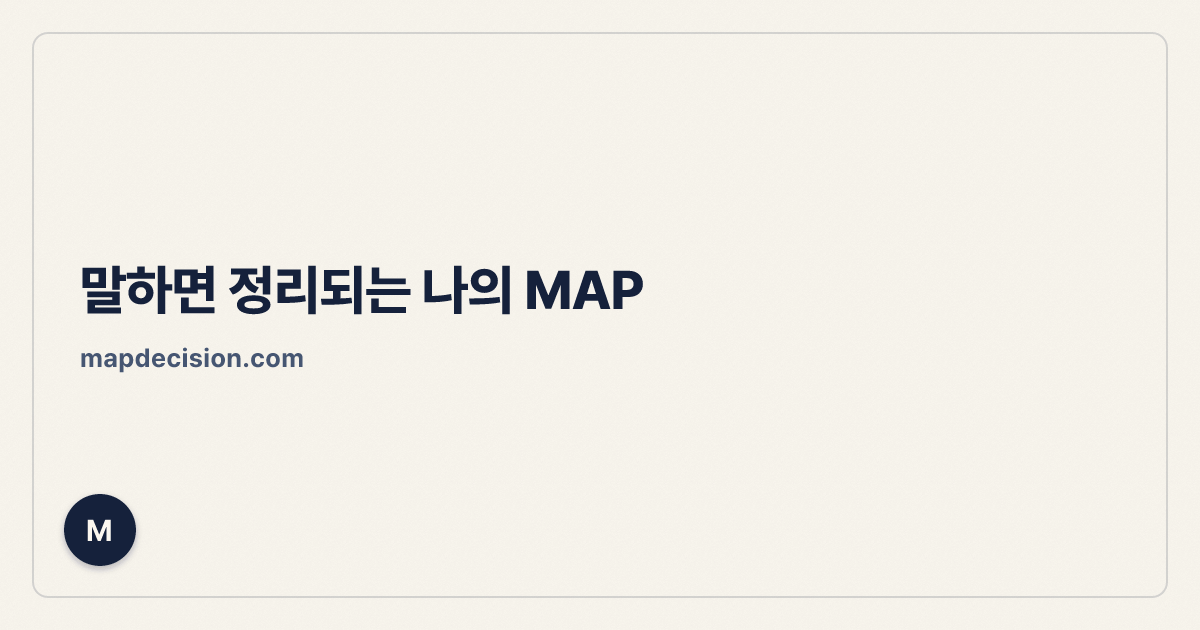
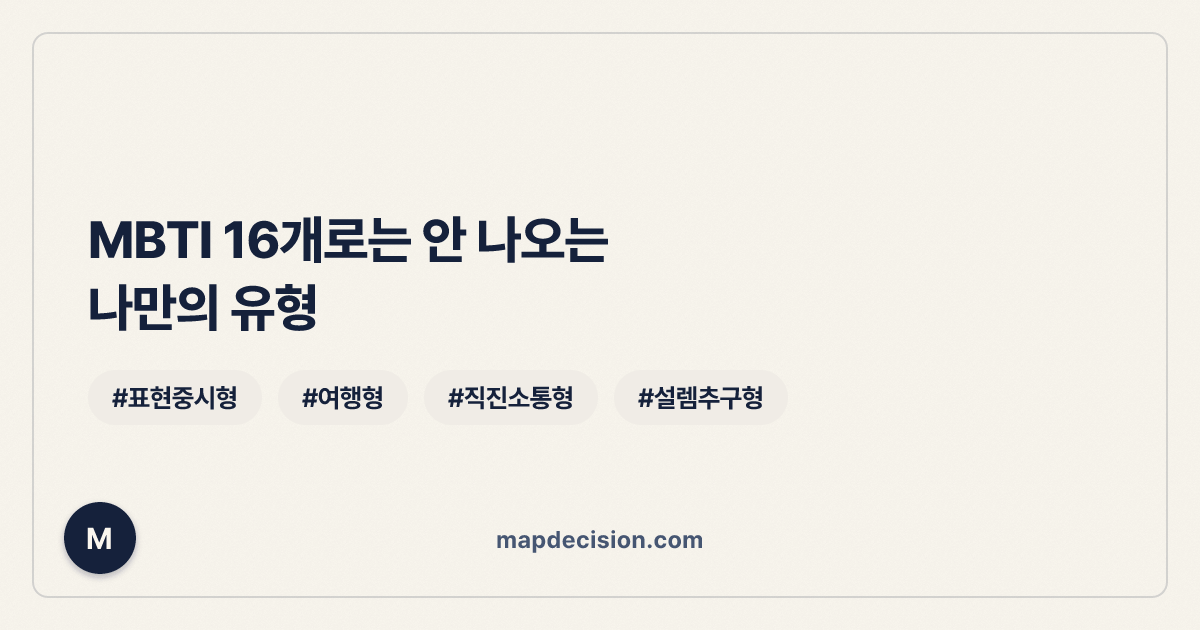
OG 이미지 문구 교체 + 태그 4개로 밀도 보완
- 문구를 /r/{id} openGraph 제목·설명과 같은 방향으로 교체:
  "MBTI 16개로는 안 나오는" / "나만의 유형" (2줄).
  기존 "말하면 정리되는 나의 MAP"은 뺐다 — 지금 제품은 선택지를
  고르는 방식이라 "말하기" 프레임과 어긋난다.
- TAG_CATEGORIES 4축에서 1개씩 고른 고정 예시 태그 4개
  (#표현중시형 #여행형 #직진소통형 #설렘추구형)를 card.png와 같은
  알약 스타일로 추가 — 실제 사용자 데이터가 아닌 하드코딩 예시라
  동적 OG 금지 원칙에 걸리지 않는다.
- 도메인 표기를 card.png(InvitationFooter)와 같은 하단 중앙 위치로
  이동.

diff --git a/src/map-decision-v1/engine/og-share-image.tsx b/src/map-decision-v1/engine/og-share-image.tsx
@@ -7,7 +7,18 @@ import { CARD_COLORS } from "./ideal-type-card-colors";
 // 카톡 미리보기만 예전 연보라 그라데이션으로 남아있었다 — 링크를 받은
 // 사람이 누르기 전에 보는 유일한 화면이라 여기도 맞춘다.
 //
-// ★동적 OG 금지 원칙은 그대로다 — 이 함수는 항상 고정된 카피만
+// 문구는 /r/{id}의 openGraph 제목·설명("친구가 자기 MAP을 보냈어요" /
+// "MBTI 16개로는 안 나오는, 그 사람만의 유형")과 같은 방향으로 맞췄다
+// — 이전 카피("말하면 정리되는 나의 MAP")는 지금 제품(선택지를 고르는
+// 방식)과 어긋나는 "말하기" 프레임이라 뺐다.
+//
+// 태그 알약 4개는 TAG_CATEGORIES(ideal-type-tags.ts) 4개 축에서 각각
+// 하나씩 고른 고정 예시다 — ★실제 사용자 데이터가 아니다. card.png가
+// "타이틀+태그+한줄설명"으로 구성되는 걸 그대로 흉내 낸 목업이라,
+// 이 예시 태그 자체도 특정 사용자를 가리키지 않는다(동적 OG 금지 원칙
+// 위반 아님).
+//
+// ★동적 OG 금지 원칙은 그대로다 — 이 함수는 항상 고정된 카피/예시만
 // 그린다. 사용자 결과 내용(제목 등)을 인자로 받지 않는다(app/layout.tsx
 // 주석 참고 — 카톡 대화 로그에 남는 문제 때문에 의도적으로 고정값만
 // 쓴다).
@@ -19,6 +30,10 @@ import { CARD_COLORS } from "./ideal-type-card-colors";
 // 재사용). 문구·색을 바꿀 땐 이 파일만 고치고 PNG를 다시 뽑으면 된다.
 export const OG_WIDTH = 1200;
 export const OG_HEIGHT = 630;
+
+// TAG_CATEGORIES(관계에서 원하는 것/라이프스타일/갈등 대처/관계 리듬)
+// 4축에서 각 1개씩 고른 고정 예시.
+const EXAMPLE_TAGS = ["#표현중시형", "#여행형", "#직진소통형", "#설렘추구형"];
 
 let paperTextureDataUri: string | undefined;
 function loadPaperTexture(): string {
@@ -45,6 +60,7 @@ export function buildOgShareElement() {
         fontFamily: "Pretendard",
       }}
     >
+      {/* 카드 전체 테두리 — card.png(InvitationFrame)와 같은 처리. */}
       <div
         style={{
           display: "flex",
@@ -63,7 +79,7 @@ export function buildOgShareElement() {
           display: "flex",
           position: "absolute",
           left: 64,
-          bottom: 64,
+          bottom: 56,
           alignItems: "center",
           justifyContent: "center",
           width: 72,
@@ -78,13 +94,39 @@ export function buildOgShareElement() {
       >
         M
       </span>
-      <div style={{ display: "flex", flexDirection: "column", justifyContent: "center", flex: 1, paddingLeft: 80, paddingRight: 80 }}>
-        <span style={{ display: "flex", fontSize: 54, fontWeight: 800, color: CARD_COLORS.primary, letterSpacing: "-1px" }}>
-          말하면 정리되는 나의 MAP
-        </span>
-        <span style={{ display: "flex", marginTop: 20, fontSize: 26, fontWeight: 700, color: CARD_COLORS.textSecondary, letterSpacing: "0.5px" }}>
+      {/* 도메인 — card.png(InvitationFooter)와 같은 위치(하단 중앙)·색. */}
+      <div style={{ display: "flex", position: "absolute", left: 0, right: 0, bottom: 76, justifyContent: "center" }}>
+        <span style={{ display: "flex", fontSize: 24, fontWeight: 700, color: CARD_COLORS.textSecondary, letterSpacing: "0.5px" }}>
           mapdecision.com
         </span>
+      </div>
+      <div style={{ display: "flex", flexDirection: "column", justifyContent: "center", flex: 1, paddingLeft: 88, paddingRight: 88 }}>
+        <span style={{ display: "flex", fontSize: 52, fontWeight: 800, lineHeight: 1.3, color: CARD_COLORS.primary, letterSpacing: "-1px" }}>
+          MBTI 16개로는 안 나오는
+        </span>
+        <span style={{ display: "flex", fontSize: 52, fontWeight: 800, lineHeight: 1.3, color: CARD_COLORS.primary, letterSpacing: "-1px" }}>
+          나만의 유형
+        </span>
+        {/* 태그 알약 4개 — card.png(InvitationTags)와 같은 배경·글자색. */}
+        <div style={{ display: "flex", marginTop: 28, gap: 16 }}>
+          {EXAMPLE_TAGS.map((tag) => (
+            <span
+              key={tag}
+              style={{
+                display: "flex",
+                backgroundColor: CARD_COLORS.invitationTagFill,
+                color: CARD_COLORS.primary,
+                borderRadius: 999,
+                padding: "12px 24px",
+                fontSize: 26,
+                fontWeight: 700,
+                letterSpacing: "-0.5px",
+              }}
+            >
+              {tag}
+            </span>
+          ))}
+        </div>
       </div>
     </div>
   );
